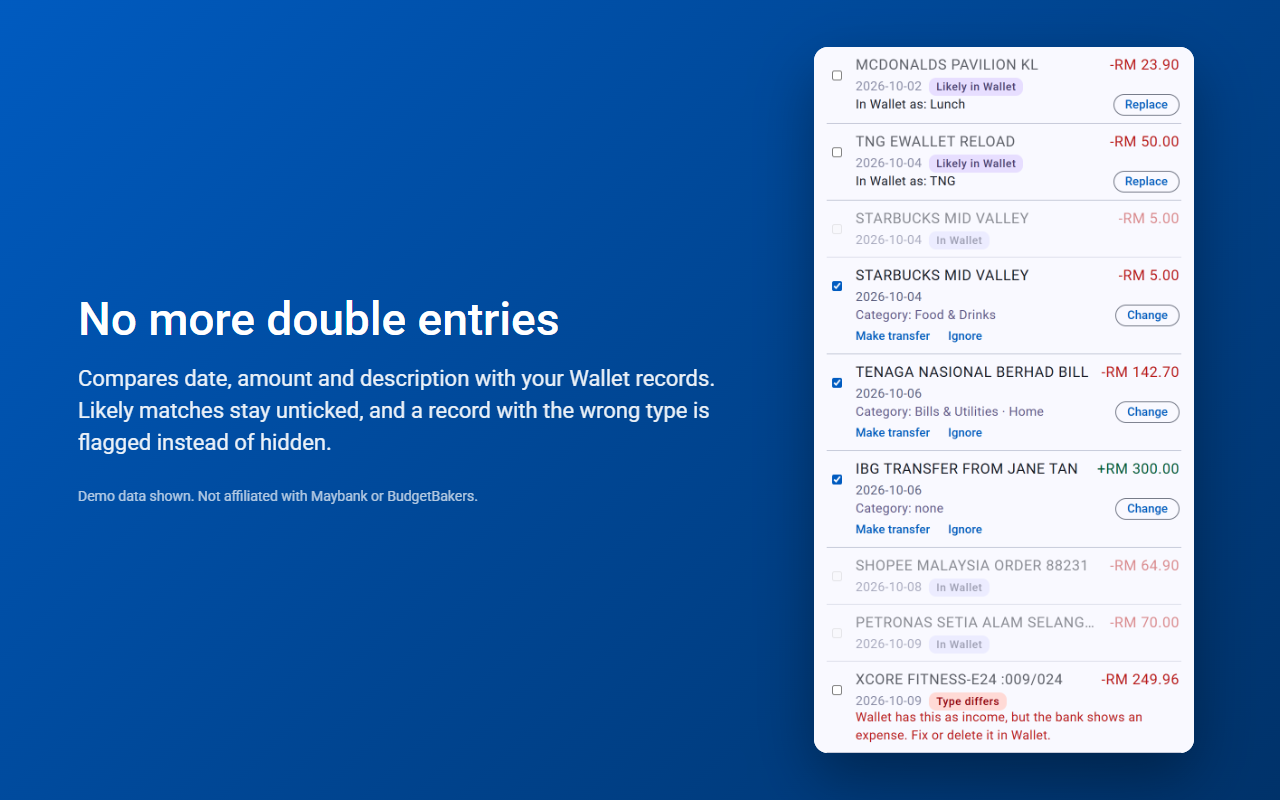
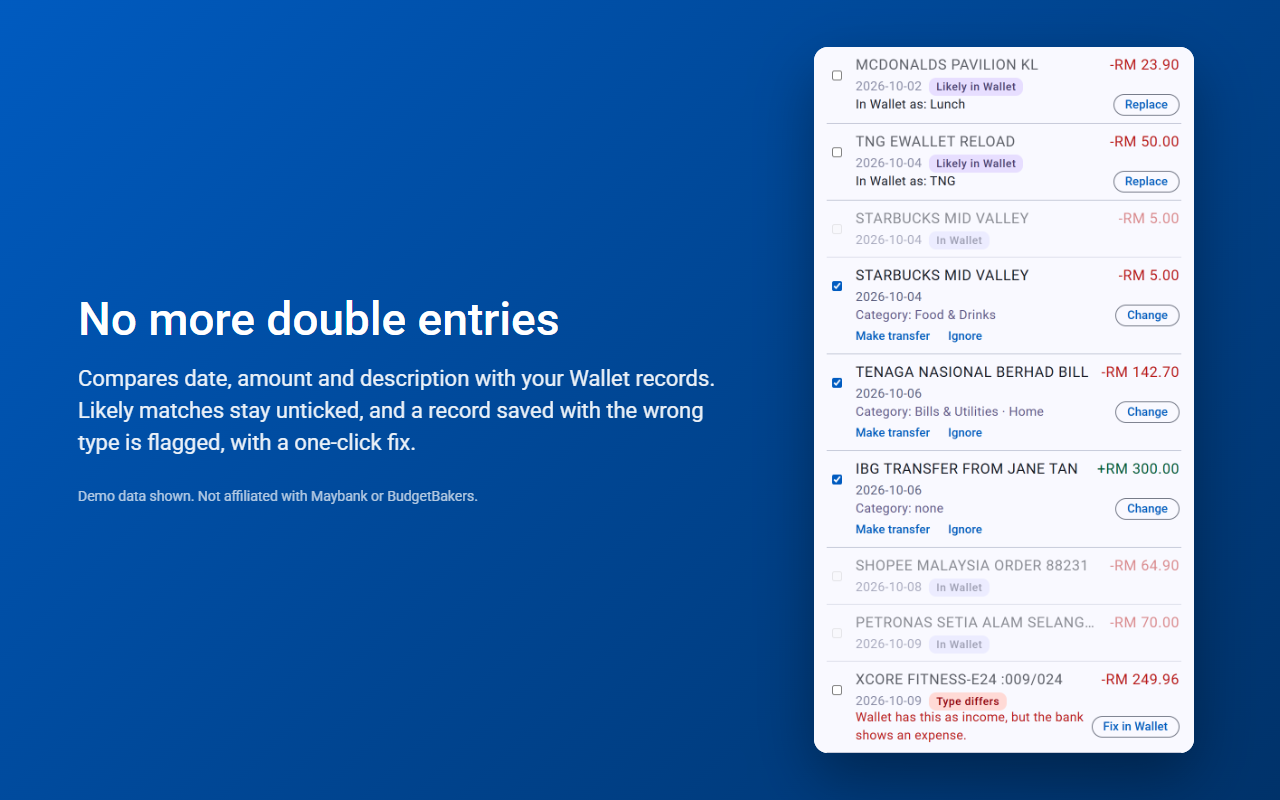
feat(panel): fix wrong-type records, match detailed notes, show progress
- Add "Fix in Wallet" (and "Fix N types") for rows whose Wallet record
  has the opposite type: PATCH the amount to the bank's signed value,
  which also sets the type. Not offered for transfers, where changing
  one side would break the pair.
- Treat a Wallet note that contains the whole bank description (8+
  letters/digits) as the same transaction, so notes with details added
  before or after still count as "In Wallet".
- Show an M3 progress bar while anything talks to Wallet; user-started
  actions lock the panel (inert) and label the pressed button
  ("Replacing…", "Adding…", "Undoing…"), so a double click can't send
  two requests. A read requested while busy now runs afterwards instead
  of being dropped.
- Tests for all three (slow fake Wallet for the busy state); README,
  PRIVACY, store listing, screenshots and AGENTS.md updated.

diff --git a/popup.js b/popup.js
@@ -1,7 +1,7 @@
 import { scanPage, diagnosePage, watchPage, detectAccount } from './scanner.js';
 import {
   getSettings, listAccounts, balanceOf, listCategories, existingRecords, listRules, matchRule, categoryHistory, guessCategory,
-  memoryKey, toWalletRecord, recordText, createRecords, updateRecords, deleteRecords,
+  memoryKey, sameDescription, toWalletRecord, recordText, createRecords, updateRecords, deleteRecords,
 } from './wallet.js';
 import { signature, matchRecords, carryOver, matchTransferRule } from './matching.js';
 import { isSupportedUrl } from './sites.js';
@@ -16,6 +16,8 @@ const MAX_IGNORED = 2000, MAX_REMEMBERED = 500;
 let settings;
 let txs = [], walletRecords = [], collectedRaw = [];
 let demo = false, busy = false;
+let rerun = null;         // a read requested while busy; runs when the current work finishes
+let pendingButton = null, pendingText = '';
 let demoIgnored = []; // in demo mode "Ignore" is remembered for the session only, never saved
 let accounts = [], categories = [];
 let bank = null;          // { label, digits } the page seems to be showing (see detectAccount)
@@ -34,6 +36,31 @@ const ready = () => Boolean(settings?.token);
 const cssVar = (name) => getComputedStyle(document.documentElement).getPropertyValue(name).trim();
 
 $('openSettings').onclick = (e) => { e.preventDefault(); chrome.runtime.openOptionsPage(); };
+
+// ---------------------------------------------------------------------------------------------------------------
+// Busy state. Anything that talks to Wallet shows a progress bar and, when the user started it, locks the controls
+// (the inert attribute: no clicks, no focus) so a second click can't start a second request. The button that was
+// pressed shows a spinner and what it is doing. Automatic refreshes show only the bar, so they never dim the panel.
+function setBusy(on, { lock = true, button = null, label = '' } = {}) {
+  busy = on;
+  $('progress').hidden = !on;
+  $('app').inert = on && lock;
+  document.body.setAttribute('aria-busy', String(on));
+  if (on && button) {
+    pendingButton = button;
+    pendingText = button.textContent;
+    button.textContent = label;
+    button.classList.add('pending');
+  }
+  if (on) return;
+  if (pendingButton) {
+    pendingButton.classList.remove('pending');
+    if (pendingButton.isConnected) pendingButton.textContent = pendingText;
+    pendingButton = null;
+  }
+  updateCount(); showUndo(); // these own the text of Add, Replace-all and Undo
+  if (rerun) { const next = rerun; rerun = null; setTimeout(() => readPage(next), 0); }
+}
 
 // ---------------------------------------------------------------------------------------------------------------
 // Accounts: which Wallet account this page's transactions belong to.
@@ -125,7 +152,8 @@ async function init() {
     renderAccount();
     return;
   }
-  await refreshAccounts();
+  setBusy(true, { lock: false });
+  try { await refreshAccounts(); } finally { setBusy(false); }
   readPage({ auto: true });
 }
 
@@ -134,8 +162,16 @@ async function init() {
 //          when there is nothing to show, and it leaves the list alone if the transactions haven't changed.
 //   quiet: refresh in place without blanking the list first (used after changing account, ignoring a row, undoing).
 //   force: re-check Wallet even if the bank's transactions are unchanged (records may have been added or deleted there).
-async function readPage({ auto = false, quiet = false, force = false } = {}) {
-  if (busy || (auto && (demo || !ready() || !settings.autoRead))) return;
+async function readPage(opts = {}) {
+  const { auto = false, quiet = false } = opts;
+  if (auto && (demo || !ready() || !settings.autoRead)) return;
+  // Something is already in flight: do this once it finishes (the newest request wins, and force sticks).
+  if (busy) { rerun = { ...opts, force: opts.force || rerun?.force }; return; }
+  setBusy(true, { lock: !auto, button: auto || quiet ? null : $('read'), label: 'Reading…' });
+  try { await readPageNow(opts); } finally { setBusy(false); }
+}
+
+async function readPageNow({ auto = false, quiet = false, force = false } = {}) {
   const [tab] = await chrome.tabs.query({ active: true, currentWindow: true });
   activeTabId = tab?.id ?? null;
   if (!isSupportedUrl(tab?.url)) {
@@ -183,11 +219,8 @@ async function readPage({ auto = false, quiet = false, force = false } = {}) {
     return;
   }
   if (demo) leaveDemo();
-  busy = true;
-  try {
-    await refreshAccounts();
-    await analyse(raw);
-  } finally { busy = false; }
+  await refreshAccounts();
+  await analyse(raw);
 }
 
 $('read').onclick = async () => {
@@ -244,7 +277,8 @@ async function exitDemo({ read = true } = {}) {
   $('results').hidden = true; $('payload').hidden = true;
   setStatus(ready() ? '' : 'Add your Wallet API token in Settings first (the cog above).', ready() ? '' : 'warn');
   updateBadge();
-  if (ready()) await refreshAccounts(); else renderAccount();
+  setBusy(true);
+  try { if (ready()) await refreshAccounts(); else renderAccount(); } finally { setBusy(false); }
   showUndo();
   if (read) readPage({ auto: true, force: true });
 }
@@ -344,7 +378,7 @@ async function analyse(raw) {
   const mismatched = txs.filter((t) => t.typeMismatch).length;
   const parts = [fresh ? `${fresh} new of ${txs.length} found.` : `No new transactions among the ${txs.length} found.`];
   if (likely - mismatched) parts.push(`${likely - mismatched} look like they're already in Wallet (unticked).`);
-  if (mismatched) parts.push(`${mismatched} match a Wallet record of the opposite type, which needs fixing in Wallet.`);
+  if (mismatched) parts.push(`${mismatched} match a Wallet record of the opposite type: use "Fix in Wallet" to correct it.`);
   const bad = ruleNote || mismatched;
   setStatus((demo ? 'DEMO DATA, nothing will be sent to Wallet. ' : '') + parts.join(' ') + ruleNote, bad ? 'warn' : '');
   render();
@@ -443,10 +477,15 @@ function rowFor(t) {
   li.querySelector('input').onchange = (e) => { t.selected = e.target.checked; updateCount(); };
 
   if (t.likely && t.typeMismatch) {
-    li.append(line('match unsure', `Wallet has this as ${t.match?.type || 'the other type'}, but the bank shows ${t.amount < 0 ? 'an expense' : 'income'}. Fix or delete it in Wallet.`));
+    const shown = `Wallet has this as ${t.match?.type || 'the other type'}, but the bank shows ${t.amount < 0 ? 'an expense' : 'income'}.`;
+    if (t.match?.transfer) li.append(line('match unsure', `${shown} It's a transfer in Wallet, so fix it there.`));
+    else {
+      li.append(line('match unsure', shown, button('Fix in Wallet', (e) => fixType([t], e.currentTarget),
+        { title: `Change the Wallet record's amount to ${fmt(t.amount)} so its type matches the bank. Category, note and labels are kept.` })));
+    }
   } else if (t.likely) {
     li.append(line('match', `In Wallet as: ${t.match?.desc || '(no description found)'}`,
-      button('Replace', () => replace([t]), { title: "Set this Wallet record's note to the bank's description. Amount, payer, category and labels are kept." })));
+      button('Replace', (e) => replace([t], e.currentTarget), { title: "Set this Wallet record's note to the bank's description. Amount, payer, category and labels are kept." })));
   }
   if (t.ignored) li.append(line('match', "Ignored: this row won't be synced.", button('Restore', () => setIgnored(t, false))));
   if (!fresh) return li;
@@ -508,10 +547,10 @@ function selected() { return txs.filter((t) => t.selected && !t.done && !t.ignor
 
 // Gives the matched Wallet records the bank's description (in the note), so they show as "In Wallet" from now on.
 // Only the note is patched: the amount already matched, and payer, category and labels stay as they are.
-async function replace(batch) {
+async function replace(batch, button = null) {
   batch = batch.filter((t) => t.likely && !t.typeMismatch && (demo || t.match?.id));
-  if (!batch.length) return;
-  busy = true;
+  if (!batch.length || busy) return;
+  setBusy(true, { button, label: 'Replacing…' });
   setStatus(`Updating ${batch.length} Wallet record${batch.length === 1 ? '' : 's'}…`);
   try {
     const results = demo
@@ -523,15 +562,50 @@ async function replace(batch) {
     if (failed.length) setStatus(`Updated ${batch.length - failed.length}. ${failed.length} failed: ${[...new Set(failed)].join('; ')}`, 'error');
     else setStatus(demo ? `Demo: pretended to update ${batch.length}. Nothing was sent.` : `Updated ${batch.length} in Wallet.`);
   } catch (e) { setStatus(e.message, 'error'); }
-  finally { busy = false; }
+  finally { setBusy(false); }
 }
 
-$('replaceAll').onclick = () => replace(txs.filter((t) => t.likely));
+$('replaceAll').onclick = () => replace(txs.filter((t) => t.likely), $('replaceAll'));
+
+// Corrects a Wallet record saved with the wrong type (an expense recorded as income, or the other way round): its
+// amount is set to the bank's signed amount, which also sets the type. Only the amount changes. If the description
+// differs too, the row becomes "Likely in Wallet" so Replace is still offered for the note.
+const canFix = (t) => t.likely && t.typeMismatch && !t.match?.transfer && (demo || t.match?.id);
+async function fixType(batch, button = null) {
+  batch = batch.filter(canFix);
+  if (!batch.length || busy) return;
+  setBusy(true, { button, label: 'Fixing…' });
+  setStatus(`Fixing ${batch.length} Wallet record${batch.length === 1 ? '' : 's'}…`);
+  try {
+    const results = demo
+      ? batch.map(() => ({ success: true }))
+      : await updateRecords(settings.token, batch.map((t) => ({ id: t.match.id, amount: { value: t.amount } })));
+    const failed = [];
+    results.forEach((r, i) => {
+      const t = batch[i];
+      if (!r.success) return failed.push(r.error);
+      t.match = { ...t.match, type: t.amount < 0 ? 'expense' : 'income' };
+      t.typeMismatch = false;
+      const same = (t.match.texts || [t.match.desc]).some((x) => sameDescription(x, t.desc));
+      Object.assign(t, same ? { done: true, likely: false } : { likely: true }, { selected: false });
+    });
+    render();
+    if (failed.length) setStatus(`Fixed ${batch.length - failed.length}. ${failed.length} failed: ${[...new Set(failed)].join('; ')}`, 'error');
+    else setStatus(demo ? `Demo: pretended to fix ${batch.length}. Nothing was sent.` : `Fixed ${batch.length} in Wallet.`);
+    if (!demo && failed.length < batch.length) refreshAccounts(true); // the balance changes when a sign flips
+  } catch (e) { setStatus(e.message, 'error'); }
+  finally { setBusy(false); }
+}
+
+$('fixAll').onclick = () => fixType(txs.filter(canFix), $('fixAll'));
 
 function updateCount() {
   const likely = txs.filter((t) => t.likely && !t.typeMismatch).length;
   $('replaceAll').hidden = !likely;
   $('replaceAll').textContent = `Replace ${likely} likely`;
+  const fixable = txs.filter(canFix).length;
+  $('fixAll').hidden = fixable < 2; // one is fixed from its own row; the bulk button is for several
+  $('fixAll').textContent = `Fix ${fixable} types`;
   const n = selected().length;
   $('count').textContent = `${n} selected`;
   $('sync').textContent = n ? `Add ${n} to Wallet` : 'Add to Wallet';
@@ -552,15 +626,18 @@ $('clear').onclick = () => {
 
 // Shows how each side was parsed (local only), to see why a transaction didn't match its Wallet record.
 $('compare').onclick = async () => {
+  if (busy) return;
   // Also report how the real page marks amounts and accounts (digits masked), to debug. Skipped for demo data.
   let pageInfo = [];
   if (!demo) {
+    setBusy(true, { button: $('compare'), label: 'Comparing…' });
     try {
       const [tab] = await chrome.tabs.query({ active: true, currentWindow: true });
       const diag = await chrome.scripting.executeScript({ target: { tabId: tab.id, allFrames: true }, func: diagnosePage });
       pageInfo = diag.map((f) => f.result).filter((r) => r?.amountCells?.length)
         .map((r) => JSON.stringify({ amountCells: r.amountCells, amountShapes: r.amountShapes }, null, 2));
     } catch (e) { /* the comparison below is still useful */ }
+    finally { setBusy(false); }
   }
   const mask = (s) => (s || '').replace(/\d/g, '9');
   const rows = (list) => list.map((x) => `${x.date}  ${x.amount}  ${x.type || '-'}  ${x.desc}` + (x.source ? `  [${x.source}, ${x.state || '?'}, updated ${x.updatedAt || '?'}]` : ''));
@@ -584,9 +661,8 @@ $('preview').onclick = () => {
 
 $('sync').onclick = async () => {
   const batch = selected();
-  if (!batch.length || !accountId) return;
-  $('sync').disabled = true;
-  busy = true;
+  if (!batch.length || !accountId || busy) return;
+  setBusy(true, { button: $('sync'), label: 'Adding…' });
   setStatus(`Adding ${batch.length} to Wallet…`);
   try {
     const results = demo
@@ -609,8 +685,8 @@ $('sync').onclick = async () => {
     if (failed.length) setStatus(`Added ${added}. ${failed.length} failed: ${[...new Set(failed)].join('; ')}`, 'error');
     else setStatus(demo ? `Demo: pretended to add ${added}. Nothing was sent.` : `Added ${added} to Wallet. You can undo this for 15 minutes.`);
     if (!demo && added) refreshAccounts(true);
-  } catch (e) { setStatus(e.message, 'error'); updateCount(); }
-  finally { busy = false; }
+  } catch (e) { setStatus(e.message, 'error'); }
+  finally { setBusy(false); }
 };
 
 // The Undo button shows for 15 minutes after an add. It deletes exactly the records that add created (and the mirror
@@ -623,9 +699,9 @@ function showUndo() {
 }
 
 $('undo').onclick = async () => {
-  if (!lastAdd) return;
+  if (!lastAdd || busy) return;
   const { groups, demo: wasDemo } = lastAdd;
-  busy = true;
+  setBusy(true, { button: $('undo'), label: 'Undoing…' });
   setStatus('Removing what was just added…');
   try {
     const out = wasDemo ? { deleted: groups.length, failed: [] } : await deleteRecords(settings.token, groups);
@@ -638,9 +714,9 @@ $('undo').onclick = async () => {
       if (wasDemo) txs.forEach((t) => { if (t.done && !t.match) { t.done = false; t.selected = true; } });
     }
     showUndo();
-    if (!wasDemo) { await refreshAccounts(true); busy = false; await reanalyse(); } else render();
+    if (!wasDemo) { await refreshAccounts(true); setBusy(false); await reanalyse(); } else render();
   } catch (e) { setStatus(e.message, 'error'); }
-  finally { busy = false; }
+  finally { setBusy(false); }
 };
 
 init();

diff --git a/popup.html b/popup.html
@@ -42,9 +42,20 @@
   .amt.neg { color: var(--md-error); } .amt.pos { color: var(--credit); }
   .bar { display: flex; justify-content: space-between; align-items: center; flex-wrap: wrap; gap: 6px; margin: 10px 0 6px; }
   pre { max-height: 220px; overflow: auto; font-size: 13px; background: var(--md-surface-container-high); padding: 12px; border-radius: 12px; }
+  /* busy state (see setBusy in popup.js): an M3 indeterminate linear progress bar, a spinner on the pressed button,
+     and the rest of the panel dimmed and inert while a user-started action runs */
+  .progress { position: sticky; top: 0; z-index: 2; height: 4px; margin: -14px -14px 10px; background: var(--md-secondary-container); overflow: hidden; }
+  .progress::after { content: ""; position: absolute; top: 0; bottom: 0; left: 0; width: 40%; border-radius: 2px; background: var(--md-primary); animation: b2w-slide 1.1s ease-in-out infinite; }
+  @keyframes b2w-slide { from { transform: translateX(-100%); } to { transform: translateX(260%); } }
+  @keyframes b2w-spin { to { transform: rotate(360deg); } }
+  button.pending::before { content: ""; display: inline-block; width: 11px; height: 11px; margin: -2px 6px 0 -2px; vertical-align: middle; border: 2px solid currentColor; border-right-color: transparent; border-radius: 50%; animation: b2w-spin .8s linear infinite; }
+  #app[inert] button:not(.pending), #app[inert] select, #app[inert] input { opacity: .45; }
+  @media (prefers-reduced-motion: reduce) { .progress::after { animation: none; width: 100%; opacity: .5; } button.pending::before { animation-duration: 2.4s; } }
   [hidden] { display: none !important; }
 </style></head>
 <body>
+  <div class="progress" id="progress" role="progressbar" aria-label="Working" hidden></div>
+  <div id="app">
   <header>
     <h1>Bank to Wallet Sync</h1>
     <button class="icon-btn" id="openSettings" aria-label="Settings" title="Settings"><svg viewBox="0 0 24 24" width="22" height="22" fill="currentColor" aria-hidden="true"><path d="M19.14 12.94c.04-.3.06-.61.06-.94s-.02-.64-.07-.94l2.03-1.58a.49.49 0 0 0 .12-.61l-1.92-3.32a.49.49 0 0 0-.59-.22l-2.39.96c-.5-.38-1.03-.7-1.62-.94l-.36-2.54a.484.484 0 0 0-.48-.41h-3.84c-.24 0-.43.17-.47.41l-.36 2.54c-.59.24-1.13.57-1.62.94l-2.39-.96a.48.48 0 0 0-.59.22L2.74 8.87a.47.47 0 0 0 .12.61l2.03 1.58c-.05.3-.09.63-.09.94s.02.64.07.94l-2.03 1.58a.49.49 0 0 0-.12.61l1.92 3.32c.12.22.37.29.59.22l2.39-.96c.5.38 1.03.7 1.62.94l.36 2.54c.05.24.24.41.48.41h3.84c.24 0 .44-.17.47-.41l.36-2.54c.59-.24 1.13-.56 1.62-.94l2.39.96c.22.08.47 0 .59-.22l1.92-3.32c.12-.22.07-.47-.12-.61l-2.01-1.58zM12 15.6A3.6 3.6 0 1 1 12 8.4a3.6 3.6 0 0 1 0 7.2z"/></svg></button>
@@ -67,12 +78,13 @@
     <p class="muted" id="coverage"></p>
     <div class="bar">
       <label><input type="checkbox" id="toggleAll" checked> <span id="count"></span></label>
-      <span><button id="replaceAll" hidden title="Update the description of every 'likely' Wallet record to the bank's">Replace</button> <button id="clear" hidden title="Forget the pages collected so far">Clear list</button> <button id="compare" title="Show how Wallet's records and the bank's were read">Compare</button> <button id="preview">Preview payload</button></span>
+      <span><button id="fixAll" hidden title="Correct the type of every Wallet record that is recorded with the opposite type">Fix types</button> <button id="replaceAll" hidden title="Update the description of every 'likely' Wallet record to the bank's">Replace</button> <button id="clear" hidden title="Forget the pages collected so far">Clear list</button> <button id="compare" title="Show how Wallet's records and the bank's were read">Compare</button> <button id="preview">Preview payload</button></span>
     </div>
     <ul id="list"></ul>
     <div class="actions"><button class="primary grow" id="sync">Add to Wallet</button></div>
     <pre id="payload" hidden></pre>
   </section>
+  </div>
 
   <script type="module" src="popup.js"></script>
 </body></html>

diff --git a/wallet.js b/wallet.js
@@ -96,13 +96,16 @@ function recordTexts(r) {
     .map((v) => (typeof v === 'string' ? v : v?.name || '').replace(LEGACY_TAG_RE, '').trim()).filter(Boolean))];
 }
 
-// Ignores case, spacing and punctuation. Wallet sometimes cuts descriptions short, so a long enough prefix counts too.
-export function sameDescription(a, b) {
+// Whether a Wallet text (note, payer, …) describes the same transaction as the bank's description. Ignores case,
+// spacing and punctuation, and accepts (with at least 8 letters/digits, so "TNG" can't match everything):
+//   - a cut-off start of either one (Wallet sometimes shortens descriptions), and
+//   - a note that contains the whole bank description, anywhere: people add details ("Lunch: GKS*GATHER CAFE …").
+export function sameDescription(walletText, bankDesc) {
   const n = (s) => (s || '').toLowerCase().replace(/[^a-z0-9]/g, '');
-  const [x, y] = [n(a), n(b)];
+  const [x, y] = [n(walletText), n(bankDesc)];
   if (!x || !y) return false;
   const [short, long] = x.length <= y.length ? [x, y] : [y, x];
-  return short === long || (short.length >= 8 && long.startsWith(short));
+  return short === long || (short.length >= 8 && long.startsWith(short)) || (y.length >= 8 && x.includes(y));
 }
 
 // The merchant part of a description: its first two words with digits, codes and punctuation dropped, so
@@ -183,6 +186,7 @@ export async function existingRecords(token, accountId, from, to) {
         date: myDate(r.recordDate),
         amount: Math.abs(value),
         type: String(r.recordType || '').toLowerCase() || undefined,
+        transfer: Boolean(r.transfer),
         texts,
         desc: texts.join(' · '),
       });

diff --git a/AGENTS.md b/AGENTS.md
@@ -61,7 +61,7 @@ Browser for tests: Edge/Chrome are found automatically on Windows, macOS and Lin
 - Accounts come from `listAccounts` (active only), cached 10 min and stored as `accountList` for Settings.
 
 **Matching against Wallet** (`matching.js` `matchRecords`)
-- Nothing is written to Wallet to track syncs. Existing records for the date range are paired one-to-one, three passes: exact description + same type → done; same type → likely; **opposite type → likely with `typeMismatch`** (shown as "Type differs", no Replace, so a wrongly signed record isn't hidden as "In Wallet"). Ignored rows take no part. `sameDescription` ignores case/punctuation and accepts an 8+ char truncated prefix. Records with `recordState: void` are ignored.
+- Nothing is written to Wallet to track syncs. Existing records for the date range are paired one-to-one, three passes: exact description + same type → done; same type → likely; **opposite type → likely with `typeMismatch`** (shown as "Type differs", no Replace, so a wrongly signed record isn't hidden as "In Wallet"). **Fix in Wallet** (`fixType`, bulk `#fixAll` when 2+) PATCHes only `amount: { value: <bank signed amount> }`, which also sets the type; not offered when the Wallet record is a transfer (`existingRecords` marks `transfer`), since flipping one side breaks the pair. Ignored rows take no part. `sameDescription(walletText, bankDesc)` is directional: it ignores case/punctuation and accepts an 8+ char truncated prefix either way, or a Wallet note that contains the whole bank description (8+ chars) anywhere, because people add details to notes. Records with `recordState: void` are ignored.
 - The REST API serves its own synced copy of Wallet, so a record deleted in the app can keep showing for a while. `existingRecords` captures `X-Sync-In-Progress` and `X-Last-Data-Change-At`; the coverage line shows them. **Compare** lists each Wallet record's source, state and updatedAt.
 
 **Categories** (a record with none shows as "Unknown expense")
@@ -75,6 +75,8 @@ Browser for tests: Edge/Chrome are found automatically on Windows, macOS and Lin
 **Other**: ignore list (`ignored`, capped at 2000 signatures); toolbar badge = number of new rows (set while the panel is open); first install opens Settings (getting-started card until a token is saved); `commands._execute_action` shortcut fires the same `onClicked`; balance = `balance.currentBalance` of the selected account. The bank's own balance is not read. Bank description goes in `note` (255 max), `counterParty` is unset. Dates are Malaysia time (UTC+8); records are created at 12:00 +08:00. Old `[m2u:<hash>]` note tags are stripped when reading.
 
 **Settings** (`chrome.storage.local`; defaults in `getSettings`): `onlySupported`, `hideWhenAway` (service worker), `autoRead`, `collectPages` (panel), plus `token`, `accountId`/`accountName`, `currency`, `accountMap`, `transferRules`, `categoryMemory`, `ignored`, `lastAdd`, `accountList`. Changes apply live through `storage.onChanged`. The Chrome semantics of "panel stays open across tabs" (global enabled + per-tab enabled with the same path) are inferred from the docs and **untested in a real browser**.
+
+**Busy state** (`setBusy` in `popup.js`): every action that talks to Wallet (read, Replace, Add, Undo, Compare, leaving demo, the first account load) shows an M3 indeterminate progress bar; user-started ones also make `#app` `inert` (dimmed, no clicks or focus, so no double requests) and give the pressed button a spinner and a label ("Replacing…", "Adding…", "Undoing…"). Automatic refreshes show only the bar. A read requested while busy is queued in `rerun` and runs when the work finishes (newest wins, `force` sticks), never dropped. New async actions must go through `setBusy`. The test stub's `env.delay` slows the fake Wallet's writes so tests can see this state.
 
 **Demo mode** never reads or writes real settings: its ignores and category choices are in memory only. It swaps in fake accounts, so it must always be leavable: a banner ("Exit demo"), the Demo button (which toggles) and the Read button all call `exitDemo`/`leaveDemo`, which restore the real accounts, clear the list and re-read the page.
 

diff --git a/PRIVACY.md b/PRIVACY.md
@@ -13,7 +13,7 @@ Bank to Wallet Sync is a browser extension that reads the transaction table on a
 Only in this browser's extension storage, never sent anywhere except as described below: your token; your default Wallet account and currency; which Wallet account you chose for each bank account; your transfer rules; the categories you picked by hand for particular merchants; the rows you chose not to sync; the identifiers of the records created by your last "Add" (so "Undo" can remove them, kept for 15 minutes); your behaviour settings; and the names of your Wallet accounts (so Settings can offer them). Forgetting the remembered choices is one click in Settings, and uninstalling the extension removes everything.
 
 ## Where data goes
-- Transactions you choose to add, the requests used to check for duplicates, categories and balances, and "Undo" requests are sent **directly from your browser to the official BudgetBakers Wallet API** (`https://rest.budgetbakers.com`) using your own API token. "Undo" deletes only the records the extension itself created in your last add.
+- Transactions you choose to add, the requests used to check for duplicates, categories and balances, and "Undo" requests are sent **directly from your browser to the official BudgetBakers Wallet API** (`https://rest.budgetbakers.com`) using your own API token. "Undo" deletes only the records the extension itself created in your last add. "Replace" and "Fix in Wallet" change one existing record that you chose: its note, or its amount's sign, and nothing else.
 - The extension loads nothing from the internet apart from the Wallet API: its font is bundled, not fetched.
 - **Nothing is sent to the developer or to any other third party.** There is no server run by the developer, no analytics, no telemetry, no advertising and no tracking.
 - Bank data is not stored by the extension. It exists in memory while the side panel is open and is discarded afterwards. (The only exception is the optional "ignore this row" list, which stores a short fingerprint of a row's date, description and amount on your computer so it stays ignored.)

diff --git a/README.md b/README.md
@@ -40,11 +40,11 @@ Besides the token, default account and currency, the Settings page (the cog) has
 - **Remembered choices**: forget the categories you picked by hand, or the rows you chose not to sync.
 
 ## How duplicates are avoided
-Nothing is written into Wallet to track what was synced. Before showing the list, the extension fetches the account's existing records for the date range and pairs each bank row with one record (matching on date, amount and description, ignoring case, spacing and punctuation, and allowing for Wallet cutting descriptions short). Two identical coffees on the same day need two Wallet records.
+Nothing is written into Wallet to track what was synced. Before showing the list, the extension fetches the account's existing records for the date range and pairs each bank row with one record (matching on date, amount and description, ignoring case, spacing and punctuation, allowing for Wallet cutting descriptions short, and accepting a note that contains the whole bank description with your own details added before or after it). Two identical coffees on the same day need two Wallet records.
 
 - **In Wallet:** same date, amount, type and description.
 - **Likely in Wallet:** same date and amount, different description. Unticked, with the Wallet description shown. **Replace** sets that record's note to the bank's description; payer, category and labels are never touched.
-- **Type differs:** same date and amount but the opposite type (an expense recorded as income). It is flagged rather than counted as "In Wallet", because the record needs fixing in Wallet.
+- **Type differs:** same date and amount but the opposite type (an expense recorded as income). It is flagged rather than counted as "In Wallet". **Fix in Wallet** sets that record's amount to the bank's sign (category, note and labels are kept); **Fix N types** does several at once. A transfer has to be fixed in Wallet itself, since changing one side would break the pair.
 
 Records synced by older versions carry a `[m2u:…]` tag in their note. It's ignored when reading and no longer written.
 

diff --git a/store/LISTING.md b/store/LISTING.md
@@ -21,7 +21,7 @@ You log in to your bank as usual. Open the extension and it reads the transactio
 
 FEATURES
 • Reads the transaction table on the Maybank2u page you are viewing, automatically when you open the panel and again when you change pages (switch it off in Settings). No bank login is ever handled by the extension.
-• Duplicate detection: compares date, amount, type and description against your existing Wallet records, so re-running it never double-adds. A record with the wrong type (an expense saved as income) is flagged, not hidden.
+• Duplicate detection: compares date, amount, type and description against your existing Wallet records, so re-running it never double-adds. A record with the wrong type (an expense saved as income) is flagged, not hidden, with a one-click fix. Notes you've added details to still count as matches.
 • Picks the right Wallet account for the bank account you're looking at, and remembers it.
 • Fills in categories and labels from your own Wallet rules, the categories you've chosen before, and similar past records. Change any row's category before adding.
 • Turns card repayments and similar rows into proper Wallet transfers, using rules you set.
